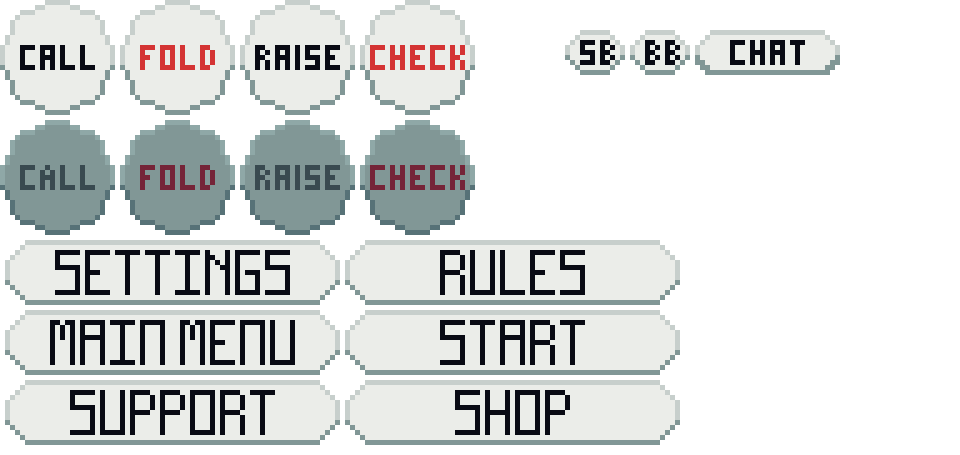
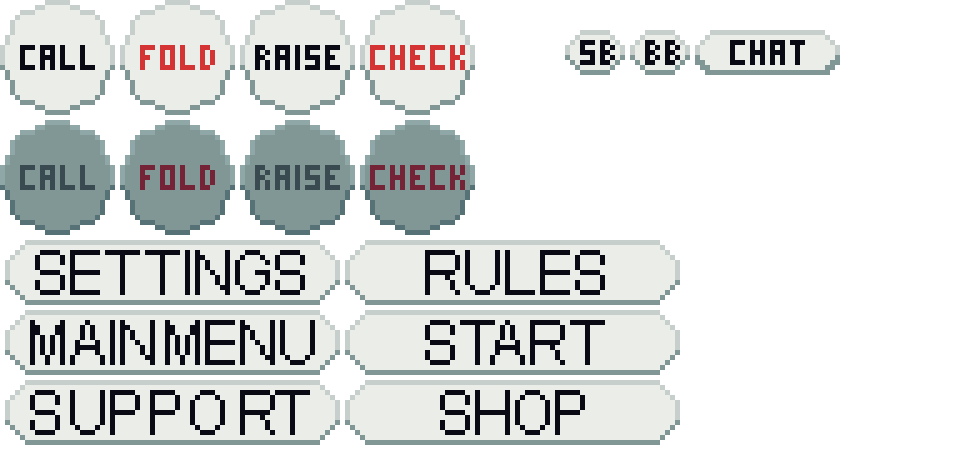
Updated Rules Screen and Button Font

diff --git a/final_project_flutter_app/lib/screens/main_menu_screen.dart b/final_project_flutter_app/lib/screens/main_menu_screen.dart
@@ -1,7 +1,6 @@
 import 'package:final_project_flutter_app/components/components.dart';
 import 'package:final_project_flutter_app/poker_party.dart';
 import 'package:flame/components.dart';
-import 'package:flutter/material.dart';
 
 class MainMenuScreen extends Component with HasGameRef<PokerParty> {
   late Vector2 size;
@@ -24,17 +23,21 @@ class MainMenuScreen extends Component with HasGameRef<PokerParty> {
     // // Add it to the game
     // add(background);
 
-    final RulesButton rulesButton = RulesButton()
-      ..size = Vector2(size.x / 3, size.y / 3)
-      ..position = Vector2(size.x / 3, size.y / 2 - size.y / 6);
+    background = SpriteComponent()
+      ..sprite = await gameRef.loadSprite('art/Title Screen.png')
+      ..size = size; // Makes it fill the screen
 
     final StartGameButton startGameButton = StartGameButton()
       ..size = Vector2(size.x / 3, size.y / 3)
       ..position = Vector2(size.x / 3 * 2, size.y / 2 - size.y / 6);
 
-    final SupportButton supportButton = SupportButton()
+    final RulesButton rulesButton = RulesButton()
       ..size = Vector2(size.x / 3, size.y / 3)
-      ..position = Vector2(size.x / 6, size.y / 6);
+      ..position = Vector2(size.x / 3, size.y / 2 - size.y / 6);
+
+    // final SupportButton supportButton = SupportButton()
+    //   ..size = Vector2(size.x / 3, size.y / 3)
+    //   ..position = Vector2(size.x / 6, size.y / 6);
 
     final ShopButton shopButton = ShopButton()
       ..size = Vector2(size.x / 3, size.y / 3)
@@ -42,37 +45,33 @@ class MainMenuScreen extends Component with HasGameRef<PokerParty> {
 
     final SettingsButton settingsButton = SettingsButton()
       ..size = Vector2(size.x / 3, size.y / 3)
-      ..position = Vector2(size.x / 2 - size.x / 6, size.y * 0.8);
+      ..position = Vector2(size.x / 2 - size.x / 6, size.y * 0.5);
 
-    background = SpriteComponent()
-      ..sprite = await gameRef.loadSprite('art/Title Screen.png')
-      ..size = size; // Makes it fill the screen
-      
     add(background);
-    add(supportButton);
+    // add(supportButton);
     add(rulesButton);
     add(startGameButton);
     add(shopButton);
     add(settingsButton);
   }
 
-  @override
-  void render(Canvas canvas) {
-    super.render(canvas);
-    final paint = Paint()..color = const Color(0xFF000000);
-    canvas.drawRect(size.toRect(), paint);
+  // @override
+  // void render(Canvas canvas) {
+  //   super.render(canvas);
+  //   final paint = Paint()..color = const Color(0xFF000000);
+  //   canvas.drawRect(size.toRect(), paint);
 
-    final textPainter = TextPainter(
-      text: TextSpan(
-        text: 'Main Menu',
-        style: TextStyle(color: Colors.white, fontSize: 24),
-      ),
-      textDirection: TextDirection.ltr,
-    );
-    textPainter.layout();
-    textPainter.paint(
-        canvas,
-        Offset(size.x / 2 - textPainter.width / 2,
-            size.y - 50 - textPainter.height / 2));
-  }
+  //   final textPainter = TextPainter(
+  //     text: TextSpan(
+  //       text: 'Main Menu',
+  //       style: TextStyle(color: Colors.white, fontSize: 24),
+  //     ),
+  //     textDirection: TextDirection.ltr,
+  //   );
+  //   textPainter.layout();
+  //   textPainter.paint(
+  //       canvas,
+  //       Offset(size.x / 2 - textPainter.width / 2,
+  //           size.y - 50 - textPainter.height / 2));
+  // }
 }

diff --git a/final_project_flutter_app/lib/screens/rules_screen.dart b/final_project_flutter_app/lib/screens/rules_screen.dart
@@ -1,66 +1,26 @@
 import 'package:final_project_flutter_app/components/components.dart';
 import 'package:flame/components.dart';
-import 'package:flutter/material.dart';
 
 class RulesScreen extends Component with HasGameRef {
   late Vector2 size;
   @override
   Future<void> onLoad() async {
-    size = gameRef
-        .size; // Set the size of the rules screen to fill the game window
+    size = gameRef.size;
     super.onLoad();
-    // Load rules screen components here
-    // For example, you can add a background or text explaining the rules
+
+    // Load the background image
+    final rulesBackground = await Sprite.load(
+        'art/Rules Page.png'); // Assuming the image is named 'rules_page.png' and is in the assets/images folder
+    add(SpriteComponent(
+      sprite: rulesBackground,
+      size: size, // Make the image fill the screen
+      position: Vector2(0, 0),
+    ));
 
     final MainMenuButton mainMenuButton = MainMenuButton()
       ..size = Vector2(size.x / 6, size.y / 6)
       ..position = Vector2(size.x / 2 - size.x / 12, size.y * 0.8);
 
     add(mainMenuButton);
-  }
-
-  @override
-  void render(Canvas canvas) {
-    super.render(canvas);
-    final paint = Paint()..color = const Color(0xFF000000);
-    canvas.drawRect(size.toRect(), paint);
-    final titleText = TextPainter(
-      text: TextSpan(
-        text: 'Rules Screen',
-        style: TextStyle(
-            color: Colors.white, fontSize: 32, fontWeight: FontWeight.bold),
-      ),
-      textDirection: TextDirection.ltr,
-    );
-    final textPainter = TextPainter(
-      text: TextSpan(
-        children: [
-          TextSpan(
-            text: 'Texas Hold\'em Rules\n\n',
-            style: TextStyle(color: Colors.white, fontSize: 24),
-          ),
-          TextSpan(
-            text:
-                '1. Each player is dealt two private cards (known as "hole cards") that belong to them alone.\n'
-                '2. Five community cards are dealt face-up on the "board".\n'
-                '3. All players in the game share these community cards.\n'
-                '4. Players use these shared community cards in conjunction with their own hole cards to each make their best possible five-card poker hand.\n'
-                '5. The player with the best hand wins the pot.\n',
-            style: TextStyle(color: Colors.white, fontSize: 18),
-          ),
-        ],
-      ),
-      textDirection: TextDirection.ltr,
-    );
-    titleText.layout();
-    titleText.paint(
-        canvas,
-        Offset(size.x / 2 - titleText.width / 2,
-            size.y / 10 - titleText.height / 2));
-    textPainter.layout();
-    textPainter.paint(
-        canvas,
-        Offset(size.x / 2 - textPainter.width / 2,
-            size.y / 2 - textPainter.height / 2));
   }
 }

diff --git a/final_project_flutter_app/lib/components/buttons/menu/settings_button.dart b/final_project_flutter_app/lib/components/buttons/menu/settings_button.dart
@@ -12,7 +12,8 @@ class SettingsButton extends PositionComponent
   Future<void> onLoad() async {
     double exportScale = 5;
     await super.onLoad();
-    final image = await gameRef.images.load("art/buttons/Master Button Sheet.png");
+    final image =
+        await gameRef.images.load("art/buttons/Master Button Sheet.png");
     sprite = Sprite(
       image,
       srcPosition: Vector2(1 * exportScale, 48 * exportScale),
@@ -23,7 +24,8 @@ class SettingsButton extends PositionComponent
       size = sprite!.srcSize;
       position = Vector2(
         gameRef.size.x / 2 - size.x / 2,
-        gameRef.size.y * 0.8,
+        (gameRef.size.y * 0.9) -
+            6, //boofed logic to get settings button to play nice with positioning
       );
     }
   }
